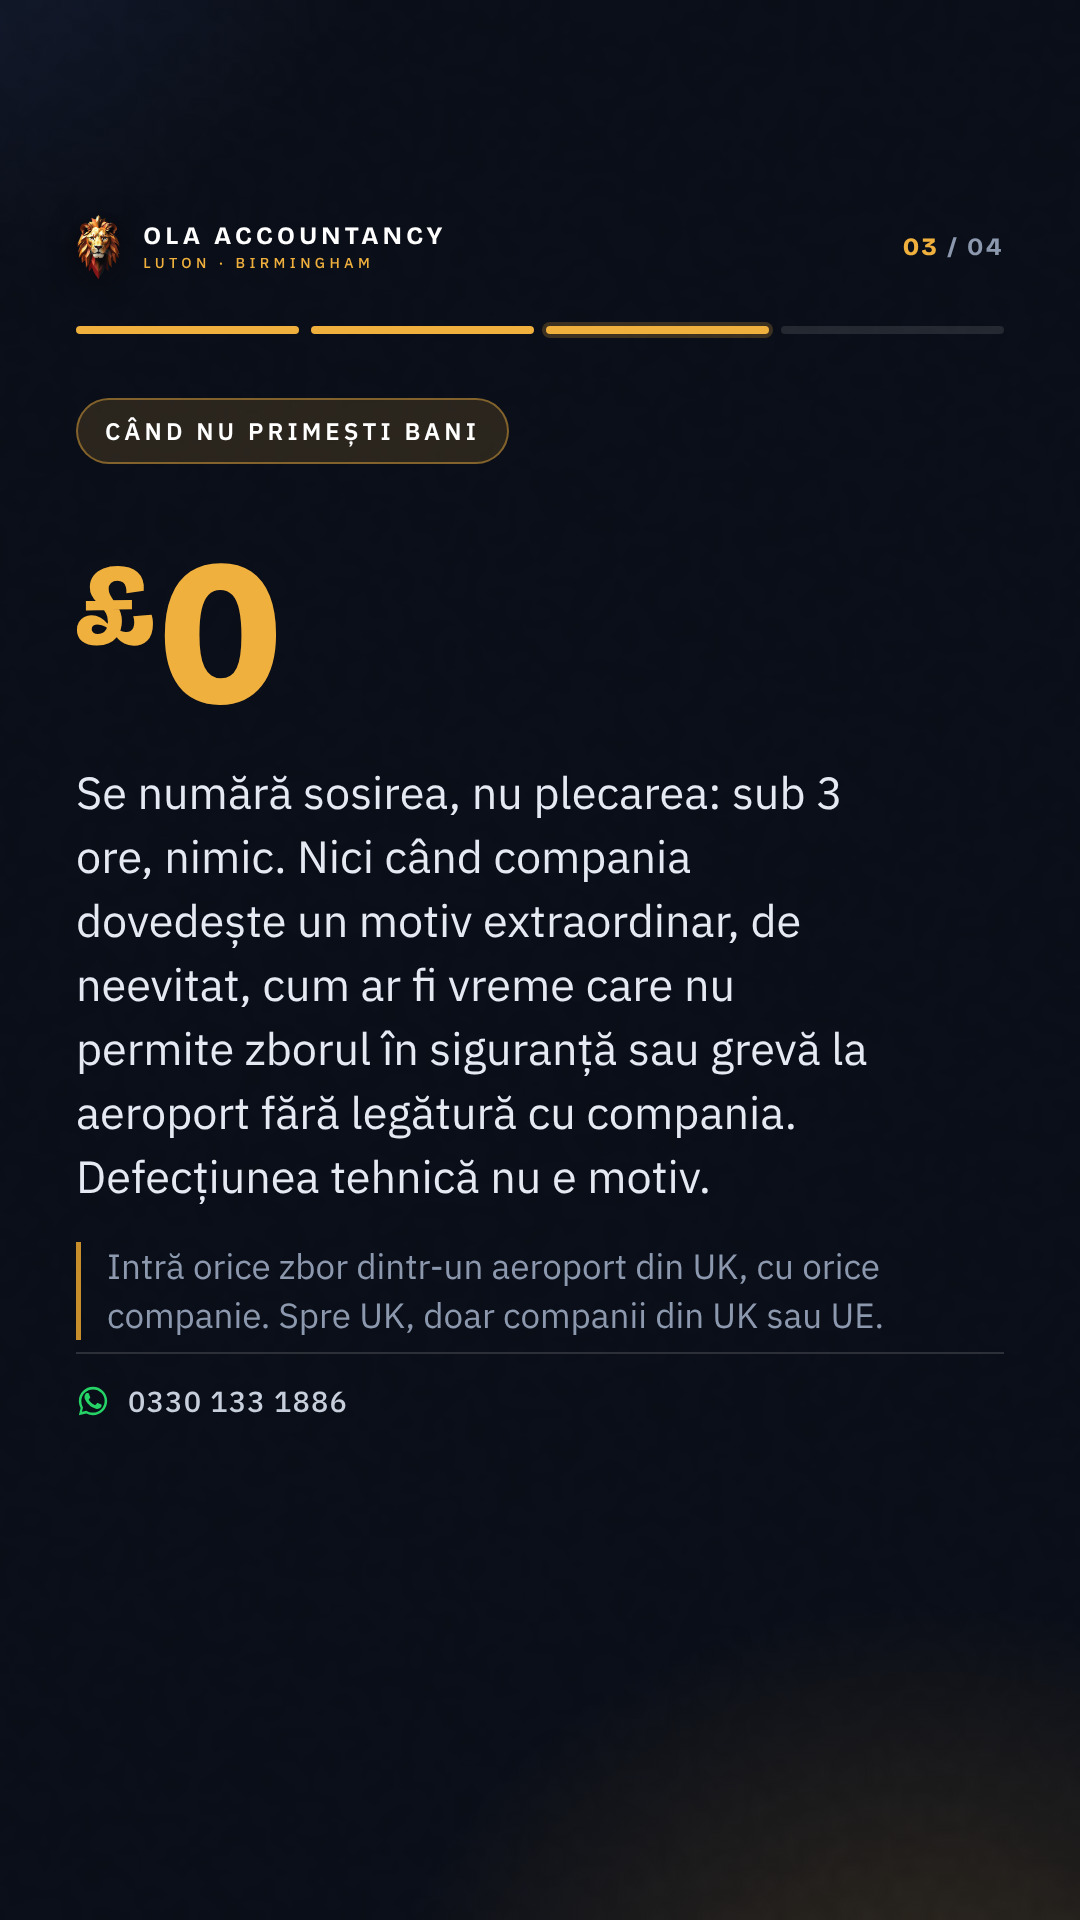
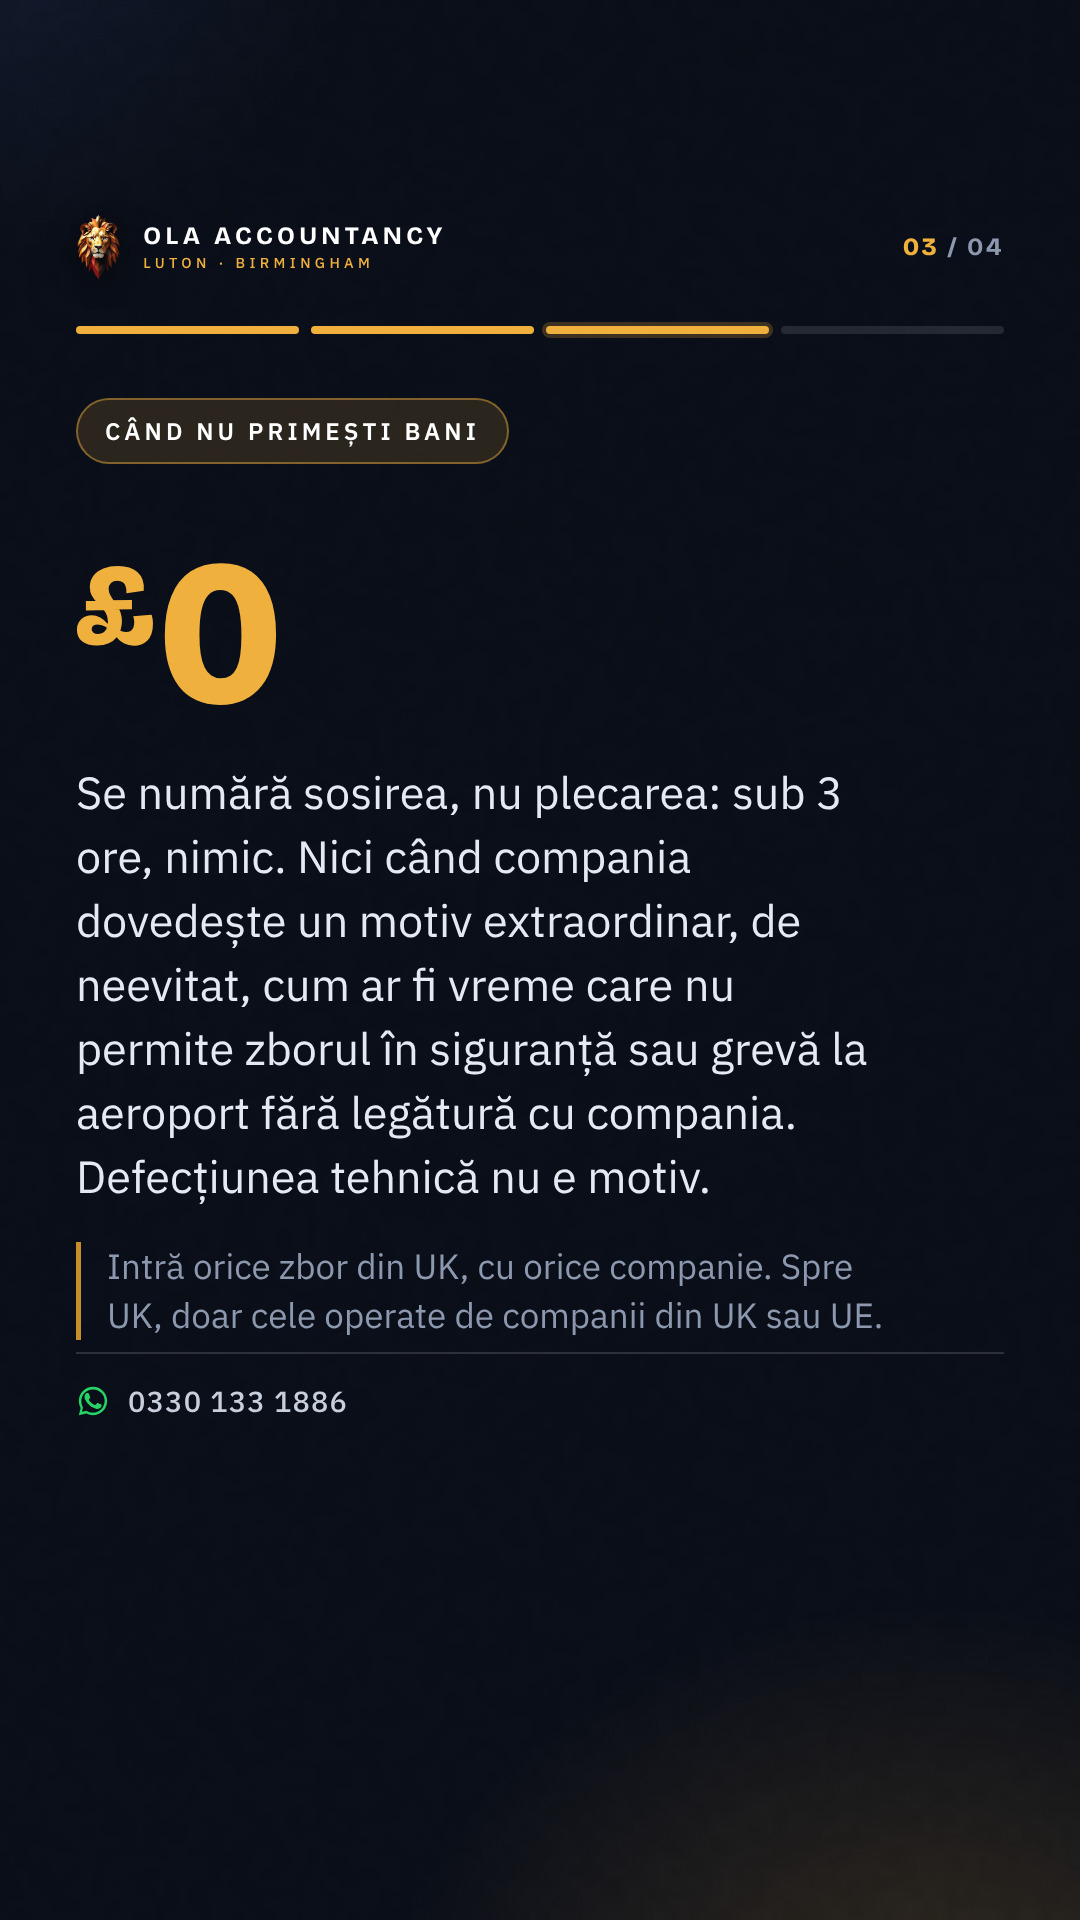
compensatie-zbor: the Romanian card-3 note keeps the operating-carrier test the English one never dropped
Shortening the note to two lines in the previous commit bought the sixth .say
line, but it paid with the wrong word. "Spre UK intră zborurile OPERATE DE
companii din UK sau din UE" became "Spre UK, doar companii din UK sau UE", and
UK261 Article 3(1)(b)(i) turns on the operating air carrier, not the airline on
the ticket. On a code-share the marketing carrier can be UK or EU while the
operator is neither, and the shortened wording pointed the reader at the wrong
one. The English note had kept "operated by" throughout, so the two decks also
disagreed.

The 99-character note is now 97 characters and keeps "operate de": the detail
given up instead is "dintr-un aeroport", because "orice zbor din UK" already
says the flight leaves the UK, where "operate de" has no substitute. Measured:
ro-feed card 3 holds at 6 .say lines and 2 .note lines, 878 of 892, footer
flush at 1350; ro-tiktok at 7 and 2, 942 of 966, footer flush at 1920. A
three-line note would put ro-tiktok 26px out of frame. Only the two Romanian
card-3 frames were restaged; every English frame and the r4 PDF are
byte-identical to the previous commit.

Claude-Session: https://claude.ai/code/session_01QfBMXvddWKVH1kzoDCGoHY

Changed region(s): [[0.1222, 0.6562, 0.825, 0.6875]]

diff --git a/pipeline/carousel/topics.py b/pipeline/carousel/topics.py
@@ -3329,7 +3329,7 @@ COMPENSATIE_ZBOR = dict(
          note="Se numără ora la care ai ajuns la destinație, nu ora la care ar fi trebuit să pleci."),
     dict(type="step", step="Când NU primești bani", fig="<cur>£</cur>0",
          say="Se numără sosirea, nu plecarea: sub 3 ore, nimic. Nici când compania dovedește un motiv extraordinar, de neevitat, cum ar fi vreme care nu permite zborul în siguranță sau grevă la aeroport fără legătură cu compania. Defecțiunea tehnică nu e motiv.",
-         note="Intră orice zbor dintr-un aeroport din UK, cu orice companie. Spre UK, doar companii din UK sau UE."),
+         note="Intră orice zbor din UK, cu orice companie. Spre UK, doar cele operate de companii din UK sau UE."),
   ],
   CTA_RO=dict(type="cta",
     kicker="Drepturile pasagerilor · zboruri UK",
